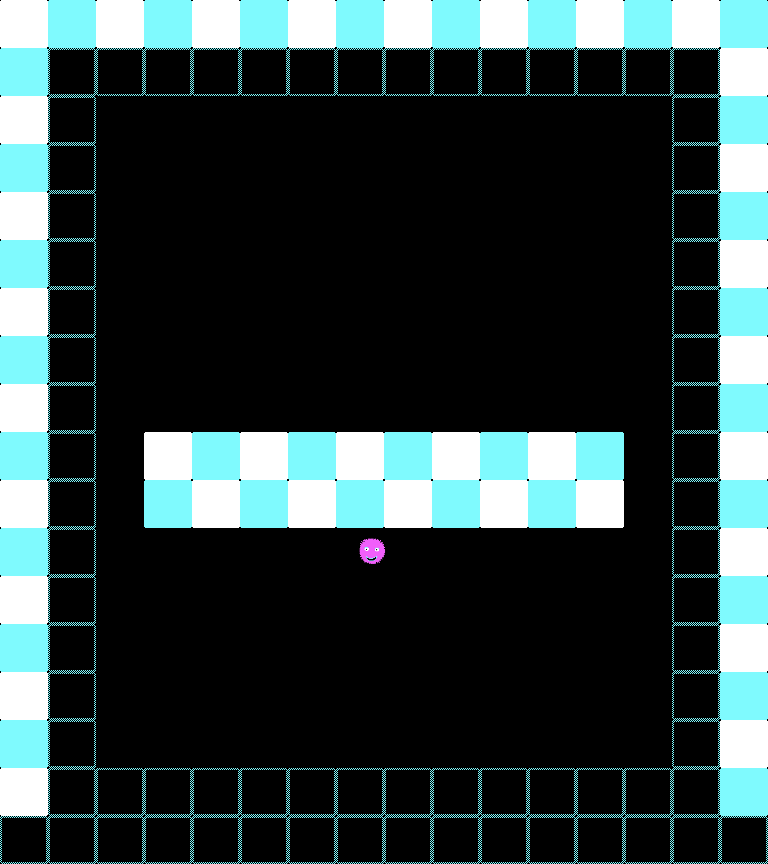
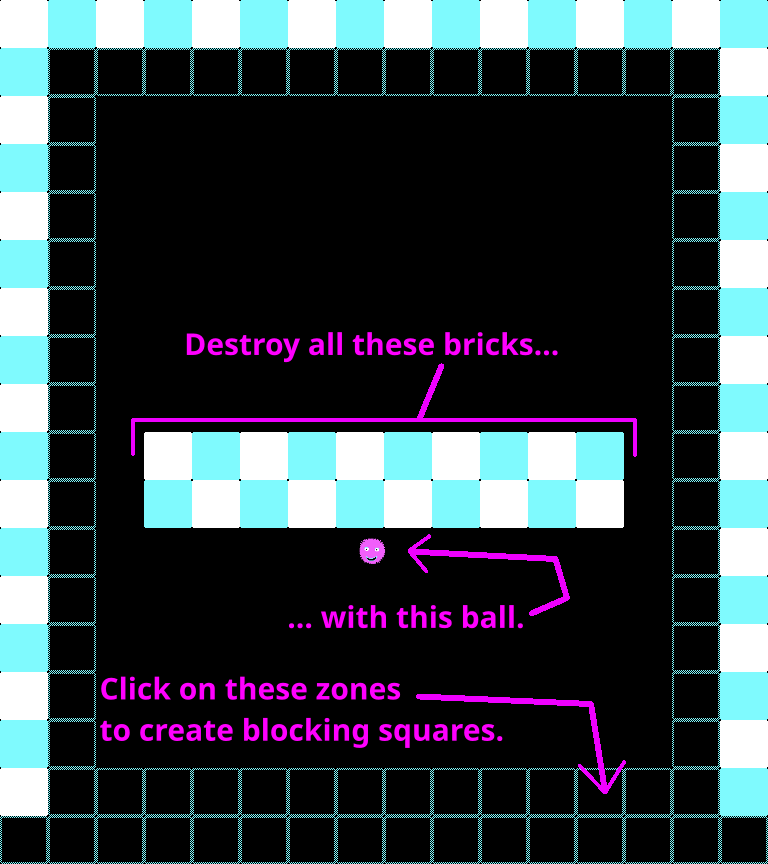
Ajout d'annotations sur les images de BreakSkweek et Unlimited Space.

diff --git a/src/views/GamesListView.vue b/src/views/GamesListView.vue
@@ -116,6 +116,15 @@
             </a>
           </div>
         </v-col>
+        <v-col cols="12" sm="4">
+          <div class="game-example">
+            <a href="/game/#fetchez_example_loopsinpool">
+              <img src="../assets/game_card_img/loopsinpool.png">
+              <br>
+              Loops in pool
+            </a>
+          </div>
+        </v-col>
       </v-row>
     </v-container>
 

diff --git a/brouillonax.md b/brouillonax.md
@@ -191,3 +191,7 @@ Longue portée :
             1
 
 
+## truc machin pour faire les annotations d'images
+
+<text style="fill:#ffffff; letter-spacing:0; font-family:Noto Sans; font-size:30; stroke:#0000ff"><tspan x="0">The ball to destroy bricks</tspan></text>
+
